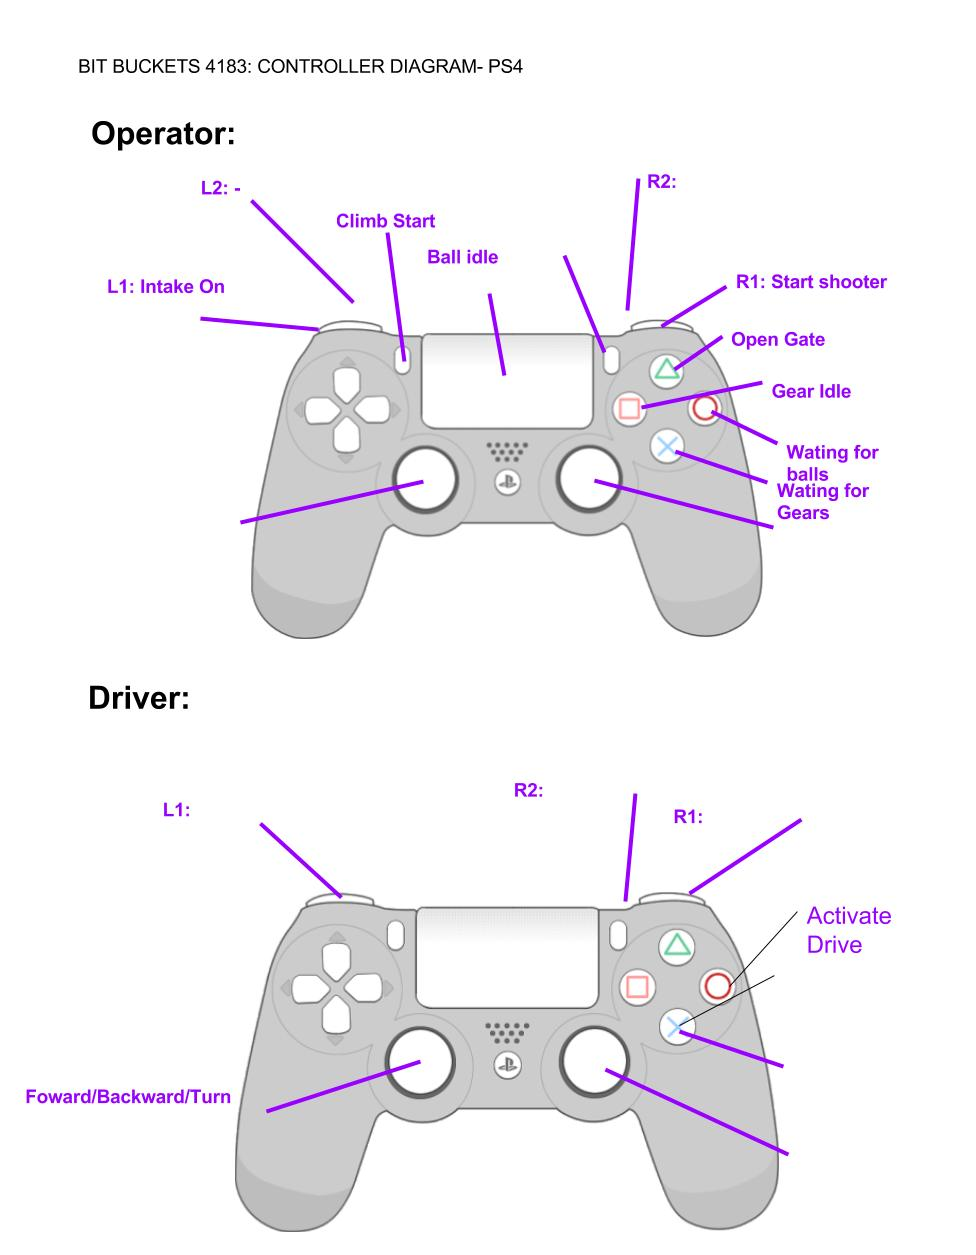
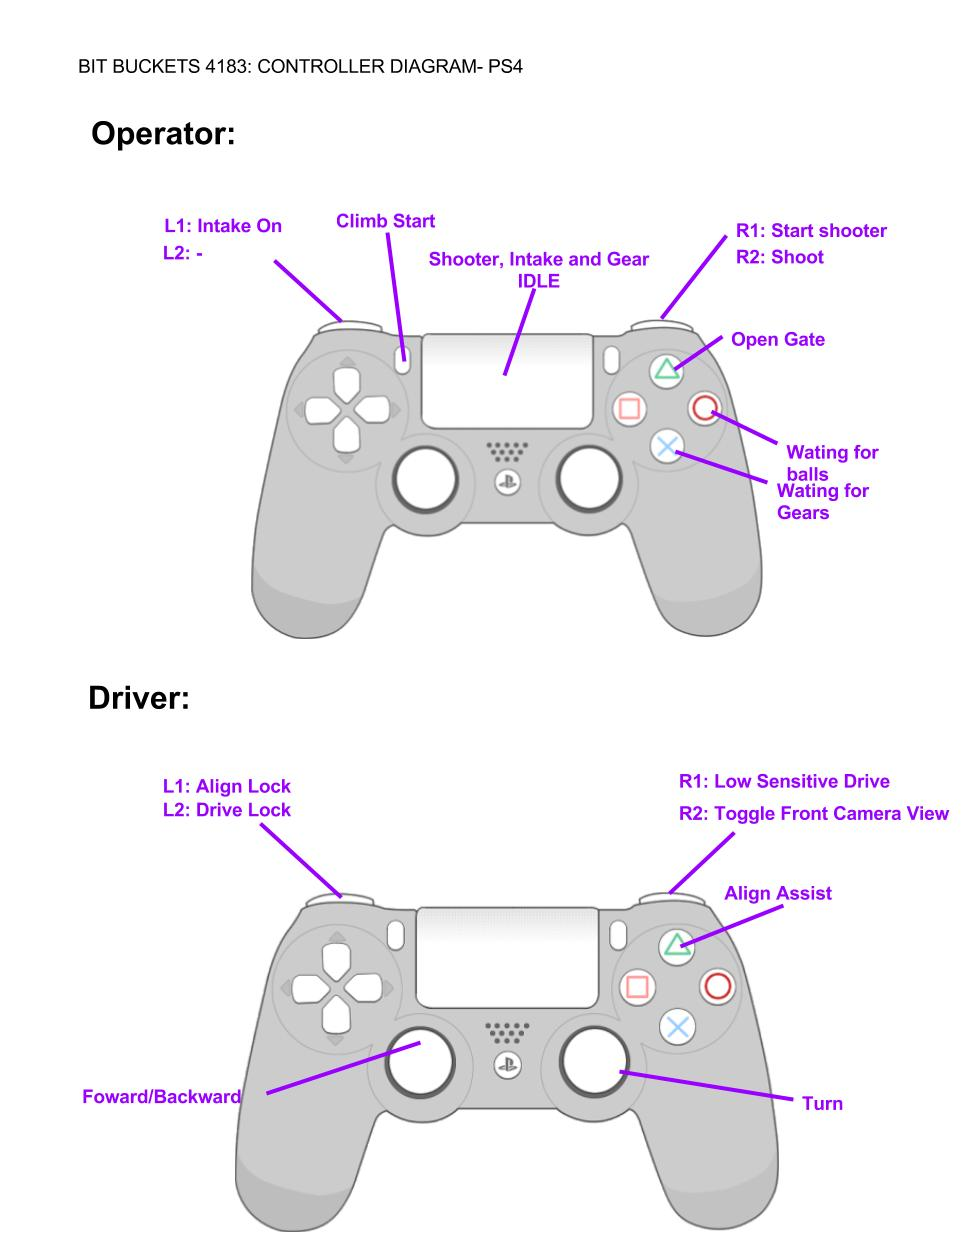
Simplify button layout
Remove drive activation (uses robot state); remove redundancy and add future feature (align assist, camera view, shoot, and drive lock)

diff --git a/src/org/usfirst/frc/team4183/robot/OI.java b/src/org/usfirst/frc/team4183/robot/OI.java
@@ -81,21 +81,32 @@ public class OI {
 
 	// If your Command doesn't require edge detect on the button,
 	// then you can look at one of these directly,
-	// in isFinished(): OI.btnShoot.get().
+	// in isFinished(): OI.btnShoot.get()
+	
 	// TODO complete this list, using the meaningful logical names.
-	public static LogicalButton btnActivateDrive;
+
 	public static LogicalButton btnLowSensitiveDrive;
+	public static LogicalButton btnToggleFrontCameraView;
+	
 	public static LogicalButton btnAlignLock;
 	public static LogicalButton btnDriveLock;
 	
+	public static LogicalButton btnAlignAssist;
+	
 	public static LogicalButton btnClimbControl;
+	
+	// Gear/ball-loading functions
 	public static LogicalButton btnWaitForGear;
 	public static LogicalButton btnWaitForBalls;
-	public static LogicalButton btnGearIdle;
 	public static LogicalButton btnOpenGate;
+	
+	// Ball handling functions
 	public static LogicalButton btnIntakeOn;
 	public static LogicalButton btnShooterStart;
-	public static LogicalButton btnBallIdle;
+	public static LogicalButton btnShoot;
+	
+	public static LogicalButton btnIdle;
+	
 	// etc for up to 14 buttons on each controller (might be fewer)
 
 
@@ -144,18 +155,25 @@ public class OI {
 	private void doAutonomousMapping() {
 		
 		// Assign to EVERY logical button a soft button
-		btnActivateDrive = new SoftButton();
 		btnLowSensitiveDrive = new SoftButton();
+		btnToggleFrontCameraView = new SoftButton();
+
+		btnAlignAssist = new SoftButton();
+				
 		btnAlignLock = new SoftButton();
+		btnDriveLock = new SoftButton();
 		
 		btnClimbControl = new SoftButton();
+		
 		btnWaitForGear = new SoftButton();
 		btnWaitForBalls = new SoftButton();
-		btnGearIdle = new SoftButton();
 		btnOpenGate = new SoftButton();
+		
 		btnIntakeOn = new SoftButton();
 		btnShooterStart = new SoftButton();
-		btnBallIdle = new SoftButton();		
+		btnShoot = new SoftButton();
+		
+		btnIdle = new SoftButton();		
 		
 		
 		// Assign to EVERY logical axis a soft axis
@@ -168,19 +186,26 @@ public class OI {
 		
 		// Assign to EVERY logical button a physical button
 		// TODO finish this list w/real logical button names & real default mapping
-		btnActivateDrive = driverController.bCircle;	// TODO: remove activate after initial testing complete
+
 		btnLowSensitiveDrive = driverController.bR1;
+		btnToggleFrontCameraView = driverController.bR2;
+		
+		btnAlignAssist = driverController.bTriangle;
+		
 		btnAlignLock = driverController.bL1;
 		btnDriveLock = driverController.bL2;
 				
 		btnClimbControl = operatorController.bShare;
+		
 		btnWaitForGear = operatorController.bCross;
 		btnWaitForBalls = operatorController.bCircle;
-		btnGearIdle = operatorController.bSquare;
 		btnOpenGate = operatorController.bTriangle;
+		
 		btnIntakeOn = operatorController.bL1;
 		btnShooterStart = operatorController.bR1;
-		btnBallIdle = operatorController.bTrackpad;
+		btnShoot = operatorController.bR2;
+		
+		btnIdle = operatorController.bTrackpad;		// Big easy button to make selected operator subs idle
 				
 		// Assign to EVERY logical axis a physical axis
 		// TODO finish this list w/real logical axis names & real mapping

diff --git a/src/org/usfirst/frc/team4183/robot/commands/DriveSubsystem/Idle.java b/src/org/usfirst/frc/team4183/robot/commands/DriveSubsystem/Idle.java
@@ -1,7 +1,5 @@
 package org.usfirst.frc.team4183.robot.commands.DriveSubsystem;
 
-import org.usfirst.frc.team4183.robot.LightingControl;
-import org.usfirst.frc.team4183.robot.OI;
 import org.usfirst.frc.team4183.robot.Robot;
 import org.usfirst.frc.team4183.robot.LightingControl.LightingObjects;
 import org.usfirst.frc.team4183.utils.CommandUtils;
@@ -11,15 +9,18 @@ import edu.wpi.first.wpilibj.command.Command;
 /**
  *
  */
-public class Idle extends Command {
+public class Idle extends Command 
+{
 
-    public Idle() {
+    public Idle() 
+    {
         // Use requires() here to declare subsystem dependencies
     	requires(Robot.driveSubsystem);
     }
 
     // Called just before this Command runs the first time
-    protected void initialize() {
+    protected void initialize() 
+    {
     	Robot.lightingControl.setSleeping(LightingObjects.DRIVE_SUBSYSTEM);
     }
 
@@ -29,20 +30,24 @@ public class Idle extends Command {
     }
 
     // Make this return true when this Command no longer needs to run execute()
-    protected boolean isFinished() {
-    	if(OI.btnActivateDrive.get()) {		// TODO: remove button and use robot state (autonomous or teleop) to transition
+    protected boolean isFinished() 
+    {
+    	if( ! Robot.instance().isDisabled()) 
+    	{
     		return CommandUtils.stateChange(this, new DriverControl());
     	}
     	return false;
     }
 
     // Called once after isFinished returns true
-    protected void end() {
+    protected void end() 
+    {
     }
 
     // Called when another command which requires one or more of the same
     // subsystems is scheduled to run
-    protected void interrupted() {
+    protected void interrupted() 
+    {
     	end();
     }
 }

diff --git a/src/org/usfirst/frc/team4183/robot/commands/DriveSubsystem/DriverControl.java b/src/org/usfirst/frc/team4183/robot/commands/DriveSubsystem/DriverControl.java
@@ -12,16 +12,19 @@ import edu.wpi.first.wpilibj.command.Command;
 /**
  *
  */
-public class DriverControl extends Command {
+public class DriverControl extends Command 
+{
 
-    public DriverControl() {
+    public DriverControl() 
+    {
         // Use requires() here to declare subsystem dependencies
         // eg. requires(chassis);
     	requires( Robot.driveSubsystem);
     }
 
     // Called just before this Command runs the first time
-    protected void initialize() {
+    protected void initialize() 
+    {
     	Robot.lightingControl.set(LightingObjects.DRIVE_SUBSYSTEM,
     		                      LightingControl.FUNCTION_ON,
     		                      LightingControl.COLOR_ORANGE,
@@ -30,25 +33,30 @@ public class DriverControl extends Command {
     }
 
     // Called repeatedly when this Command is scheduled to run
-    protected void execute() {
+    protected void execute() 
+    {
     	Robot.driveSubsystem.arcadeDrive(OI.axisForward.get(), OI.axisTurn.get());
     }
 
     // Make this return true when this Command no longer needs to run execute()
-    protected boolean isFinished() {
-    	if(OI.btnAlignLock.get()) {
+    protected boolean isFinished() 
+    {
+    	if(OI.btnAlignLock.get()) 
+    	{
     		return CommandUtils.stateChange(this, new AlignLock());
     	}
         return false;
     }
 
     // Called once after isFinished returns true
-    protected void end() {
+    protected void end() 
+    {
     }
 
     // Called when another command which requires one or more of the same
     // subsystems is scheduled to run
-    protected void interrupted() {
+    protected void interrupted() 
+    {
     	end();
     }
 }

diff --git a/src/org/usfirst/frc/team4183/robot/commands/DriveSubsystem/AlignLock.java b/src/org/usfirst/frc/team4183/robot/commands/DriveSubsystem/AlignLock.java
@@ -11,15 +11,18 @@ import edu.wpi.first.wpilibj.command.Command;
 /**
  *
  */
-public class AlignLock extends Command {
+public class AlignLock extends Command 
+{
 
-    public AlignLock() {
+    public AlignLock() 
+    {
         // Use requires() here to declare subsystem dependencies
         requires(Robot.driveSubsystem);
     }
 
     // Called just before this Command runs the first time
-    protected void initialize() {
+    protected void initialize() 
+    {
     	Robot.lightingControl.set(LightingObjects.DRIVE_SUBSYSTEM,
                                   LightingControl.FUNCTION_BLINK,
                                   LightingControl.COLOR_GREEN,
@@ -30,26 +33,31 @@ public class AlignLock extends Command {
     }
 
     // Called repeatedly when this Command is scheduled to run
-    protected void execute() {
+    protected void execute() 
+    {
     	Robot.driveSubsystem.alignDrive(OI.axisForward.get());
     }
 
     // Make this return true when this Command no longer needs to run execute()
-    protected boolean isFinished() {
-    	if(!OI.btnAlignLock.get()) {
+    protected boolean isFinished() 
+    {
+    	if(!OI.btnAlignLock.get()) 
+    	{
     		return CommandUtils.stateChange(this, new DriverControl());
     	}
         return false;
     }
 
     // Called once after isFinished returns true
-    protected void end() {
+    protected void end() 
+    {
         Robot.driveSubsystem.driveStraight(false);
     }
 
     // Called when another command which requires one or more of the same
     // subsystems is scheduled to run
-    protected void interrupted() {
+    protected void interrupted() 
+    {
     	end();
     }
 }

diff --git a/src/org/usfirst/frc/team4183/robot/commands/DriveSubsystem/DriveLock.java b/src/org/usfirst/frc/team4183/robot/commands/DriveSubsystem/DriveLock.java
@@ -9,15 +9,18 @@ import edu.wpi.first.wpilibj.command.Command;
 /**
  *
  */
-public class DriveLock extends Command {
+public class DriveLock extends Command 
+{
 
-    public DriveLock() {
+    public DriveLock() 
+    {
         // Use requires() here to declare subsystem dependencies
         requires(Robot.driveSubsystem);
     }
 
     // Called just before this Command runs the first time
-    protected void initialize() {
+    protected void initialize() 
+    {
     	Robot.lightingControl.set(LightingObjects.DRIVE_SUBSYSTEM,
                                   LightingControl.FUNCTION_ON,
                                   LightingControl.COLOR_GREEN,
@@ -26,22 +29,26 @@ public class DriveLock extends Command {
     }
 
     // Called repeatedly when this Command is scheduled to run
-    protected void execute() {
+    protected void execute() 
+    {
     	// TODO: close the loop on the position encoders to keep wheels from moving
     }
 
     // Make this return true when this Command no longer needs to run execute()
-    protected boolean isFinished() {
+    protected boolean isFinished() 
+    {
         return false;
     }
 
     // Called once after isFinished returns true
-    protected void end() {
+    protected void end() 
+    {
     }
 
     // Called when another command which requires one or more of the same
     // subsystems is scheduled to run
-    protected void interrupted() {
+    protected void interrupted() 
+    {
     	end();
     }
 }

diff --git a/src/org/usfirst/frc/team4183/robot/commands/BallManipSubsystem/IntakeOn.java b/src/org/usfirst/frc/team4183/robot/commands/BallManipSubsystem/IntakeOn.java
@@ -31,7 +31,7 @@ public class IntakeOn extends Command {
 
     // Make this return true when this Command no longer needs to run execute()
     protected boolean isFinished() {
-        if(OI.btnBallIdle.get()){
+        if(OI.btnIdle.get()){
         	return CommandUtils.stateChange(this, new Idle());
         }
         if(OI.btnShooterStart.get()){

diff --git a/src/org/usfirst/frc/team4183/robot/commands/BallManipSubsystem/ShooterOn.java b/src/org/usfirst/frc/team4183/robot/commands/BallManipSubsystem/ShooterOn.java
@@ -31,7 +31,7 @@ public class ShooterOn extends Command {
 
     // Make this return true when this Command no longer needs to run execute()
     protected boolean isFinished() {
-        if(OI.btnBallIdle.get()){
+        if(OI.btnIdle.get()){
         	return CommandUtils.stateChange(this, new Idle());  
         }
         if(OI.btnIntakeOn.get()){

diff --git a/src/org/usfirst/frc/team4183/robot/commands/GearHandlerSubsystem/WaitingForBalls.java b/src/org/usfirst/frc/team4183/robot/commands/GearHandlerSubsystem/WaitingForBalls.java
@@ -35,7 +35,7 @@ public class WaitingForBalls extends Command {
 
     // Make this return true when this Command no longer needs to run execute()
     protected boolean isFinished() {
-    	if(OI.btnGearIdle.get()) {
+    	if(OI.btnIdle.get()) {
     		return CommandUtils.stateChange(this, new Idle());
     	}
     	if( OI.btnWaitForGear.get()) {

diff --git a/src/org/usfirst/frc/team4183/robot/commands/GearHandlerSubsystem/WaitingForGear.java b/src/org/usfirst/frc/team4183/robot/commands/GearHandlerSubsystem/WaitingForGear.java
@@ -37,7 +37,7 @@ public class WaitingForGear extends Command {
 
     // Make this return true when this Command no longer needs to run execute()
     protected boolean isFinished() {
-    	if(OI.btnGearIdle.get()) {
+    	if(OI.btnIdle.get()) {
     		return CommandUtils.stateChange(this, new Idle());
     	}
     	if( OI.btnWaitForBalls.get()) {

diff --git a/src/org/usfirst/frc/team4183/robot/commands/GearHandlerSubsystem/GateOpen.java b/src/org/usfirst/frc/team4183/robot/commands/GearHandlerSubsystem/GateOpen.java
@@ -35,7 +35,7 @@ public class GateOpen extends Command {
 
     // Make this return true when this Command no longer needs to run execute()
     protected boolean isFinished() {
-    	if(OI.btnGearIdle.get()) {
+    	if(OI.btnIdle.get()) {
     		return CommandUtils.stateChange(this, new Idle());
     	}
         return false;
